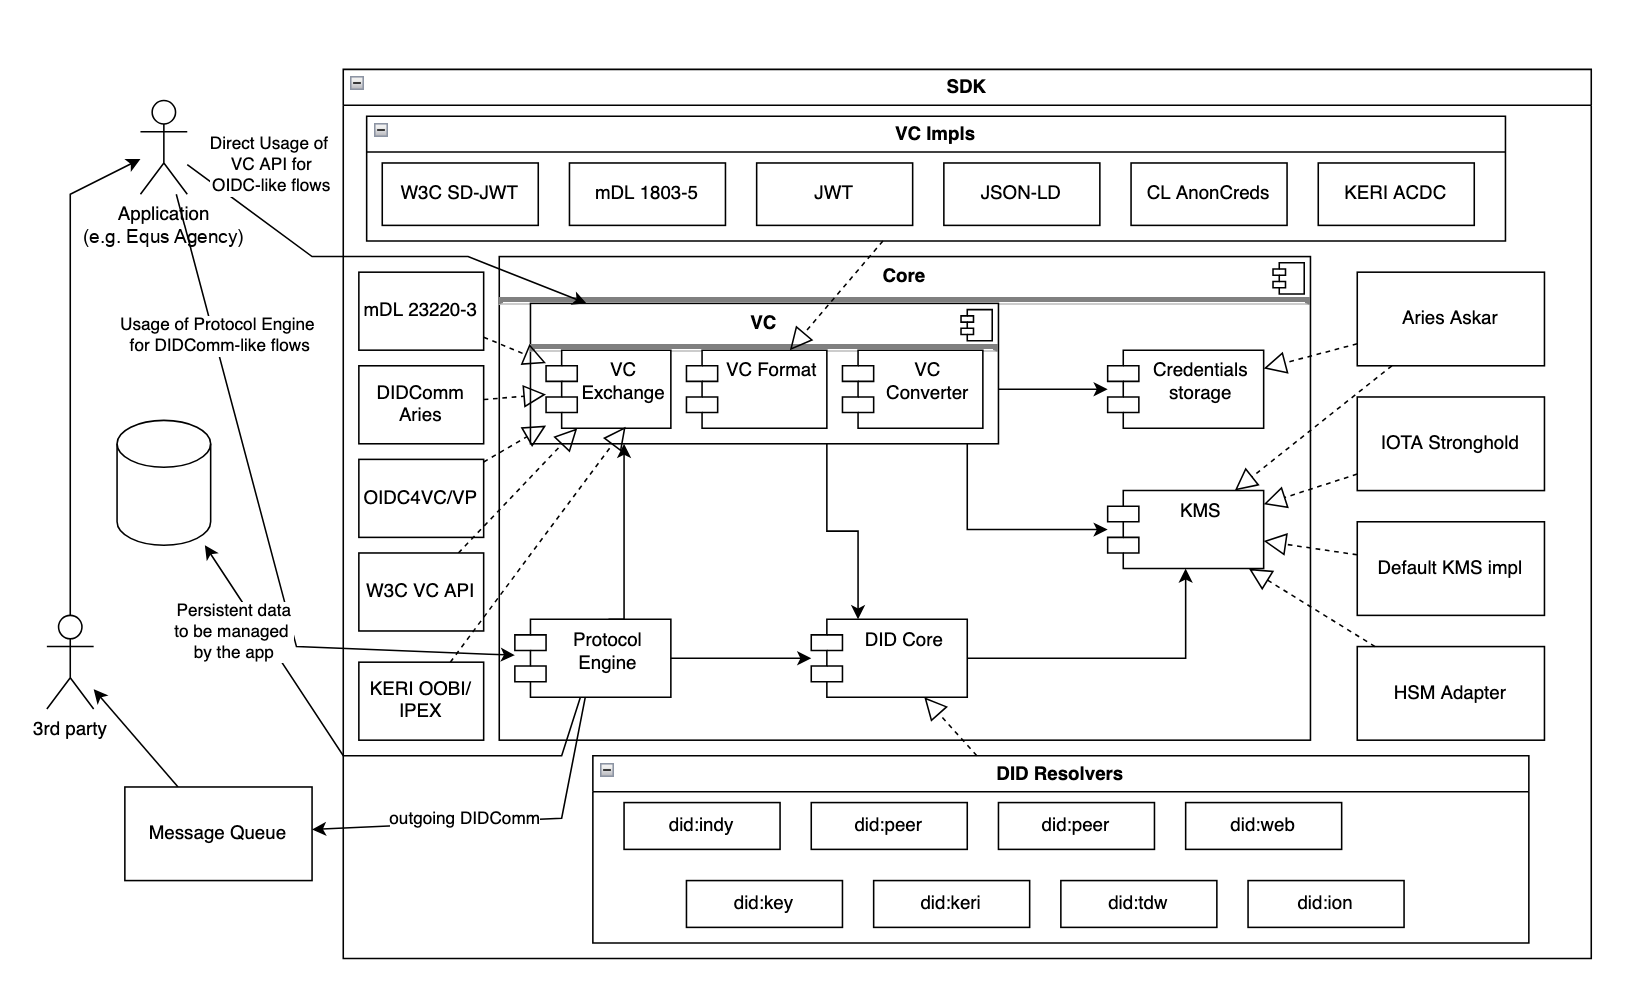
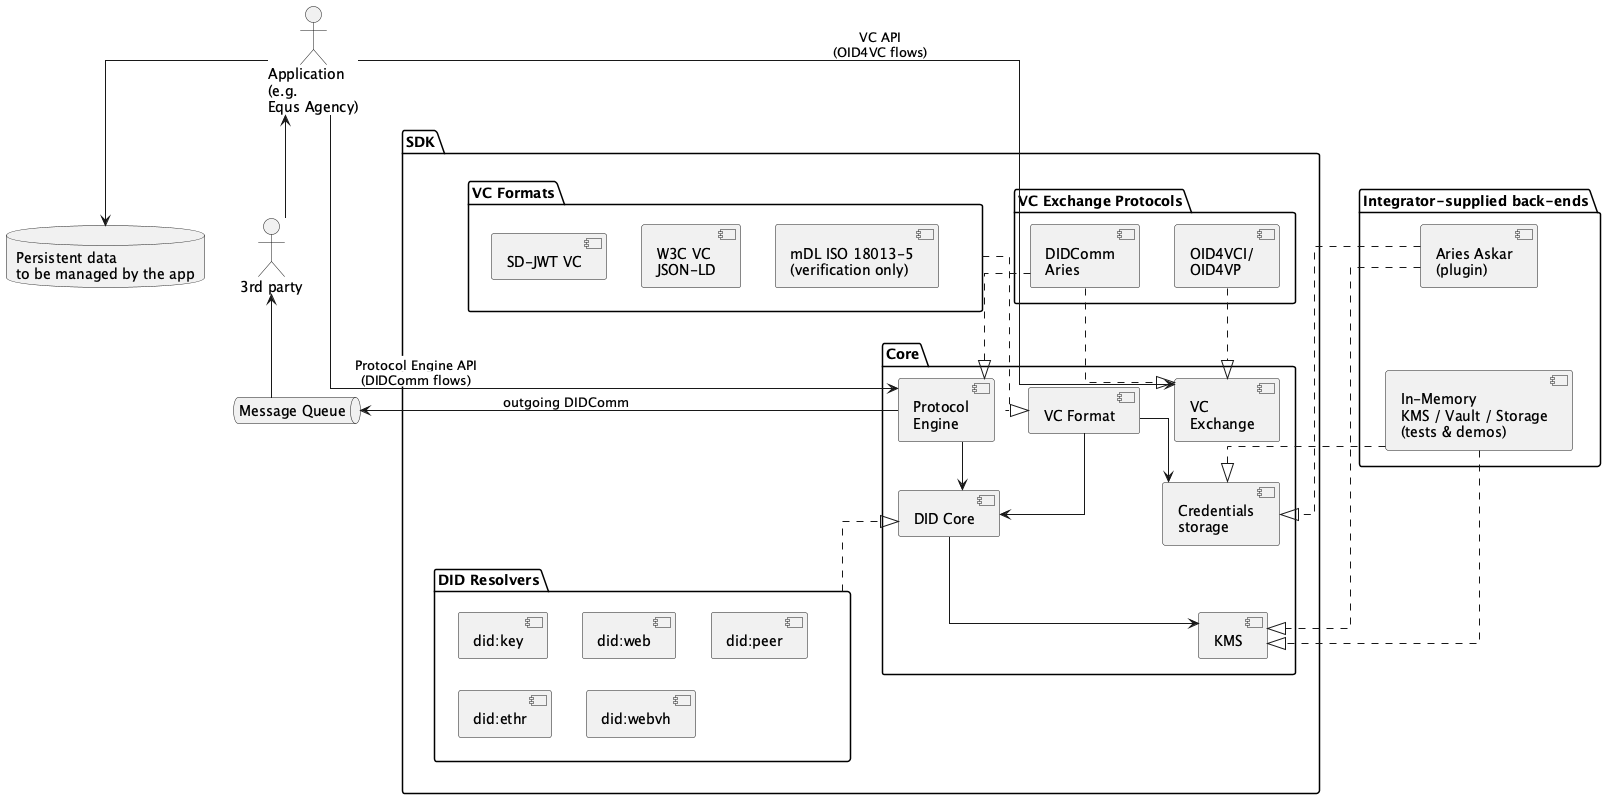
ASI-6968: update components diagram to current state
- [ ] Add tests
- [ ] Describe API changes in task comments
- [ ] Update documentation (local and general README.md if necessary)

diff --git a/README.md b/README.md
@@ -53,8 +53,10 @@ See [Components](docs/equs-sdk-components.png).
       - Verification only
 - VC Exchange Protocols: Issuance
     - OID4VCI [version 1.0](https://openid.net/specs/openid-4-verifiable-credential-issuance-1_0.html)
-        - Authorization Code Flow using scope Parameter to Request Issuance of a Credential
-        - Preauthorized Code Flow using scope Parameter to Request Issuance of a Credential
+        - Authorization Code Flow using the `scope` Parameter to Request Issuance of a Credential
+        - Pre-Authorized Code Flow, with optional Transaction Code (`tx_code`)
+            - **NOTE**: the credentials to issue come from the offer's `credential_configuration_ids`;
+              `scope` applies to the Authorization Code Flow only.
         - Batch issuance
             - **NOTE**: Access token generation is delegated to the application — the SDK is not an Authorization Server. Token validation is optional: configure introspection or JWKS while building Issuer, or validate on the application side.
         - Deferred Issuance
@@ -69,7 +71,9 @@ See [Components](docs/equs-sdk-components.png).
         - SIOPv2 extension [draft 13](https://openid.net/specs/openid-connect-self-issued-v2-1_0.html)
         - Digital Credentials Query Language (DCQL)
         - OID4VP
-            - All Response Modes defined by the specification
+            - All Response Modes defined by the specification: `direct_post`, `direct_post.jwt`,
+              `dc_api`, `dc_api.jwt`, `fragment` and `fragment.jwt`
+            - Signed Authorization Requests (Request Objects), passed by value or by reference
             - Client Identifier Prefixes:
                 - Supported by Verifier: "decentralized_identifier", "origin", "redirect_uri", "x509_san_dns" and "x509_hash"
                 - Supported by Holder: "decentralized_identifier", "redirect_uri"
